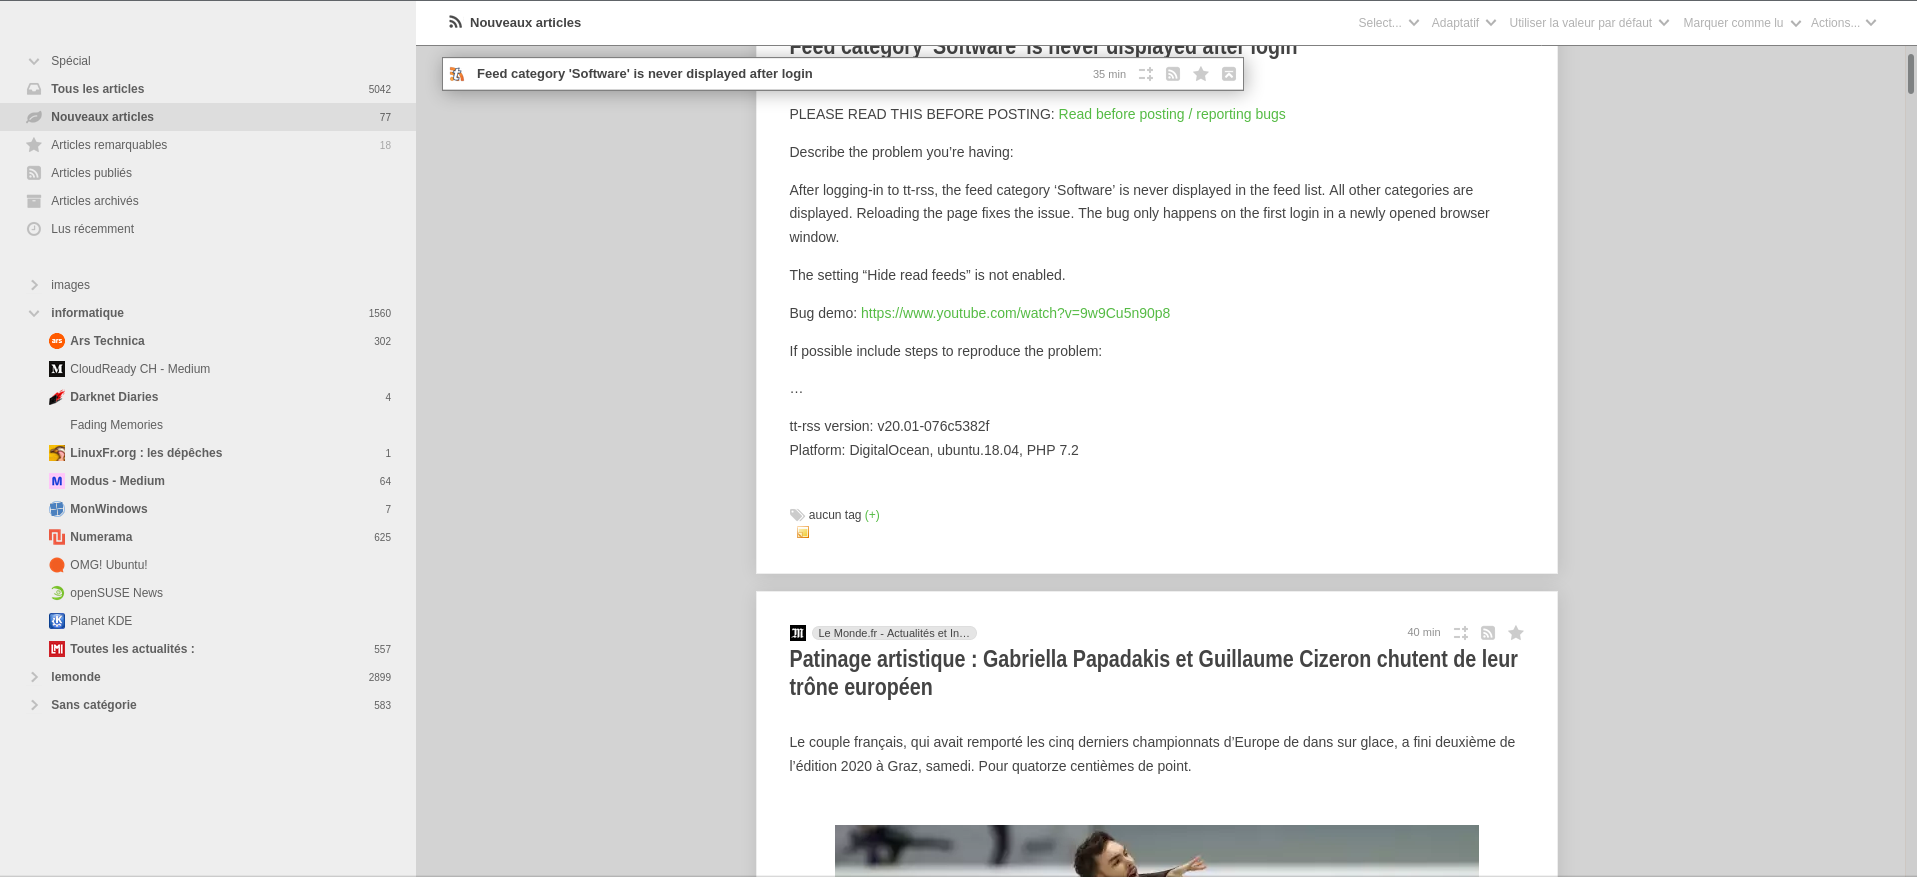
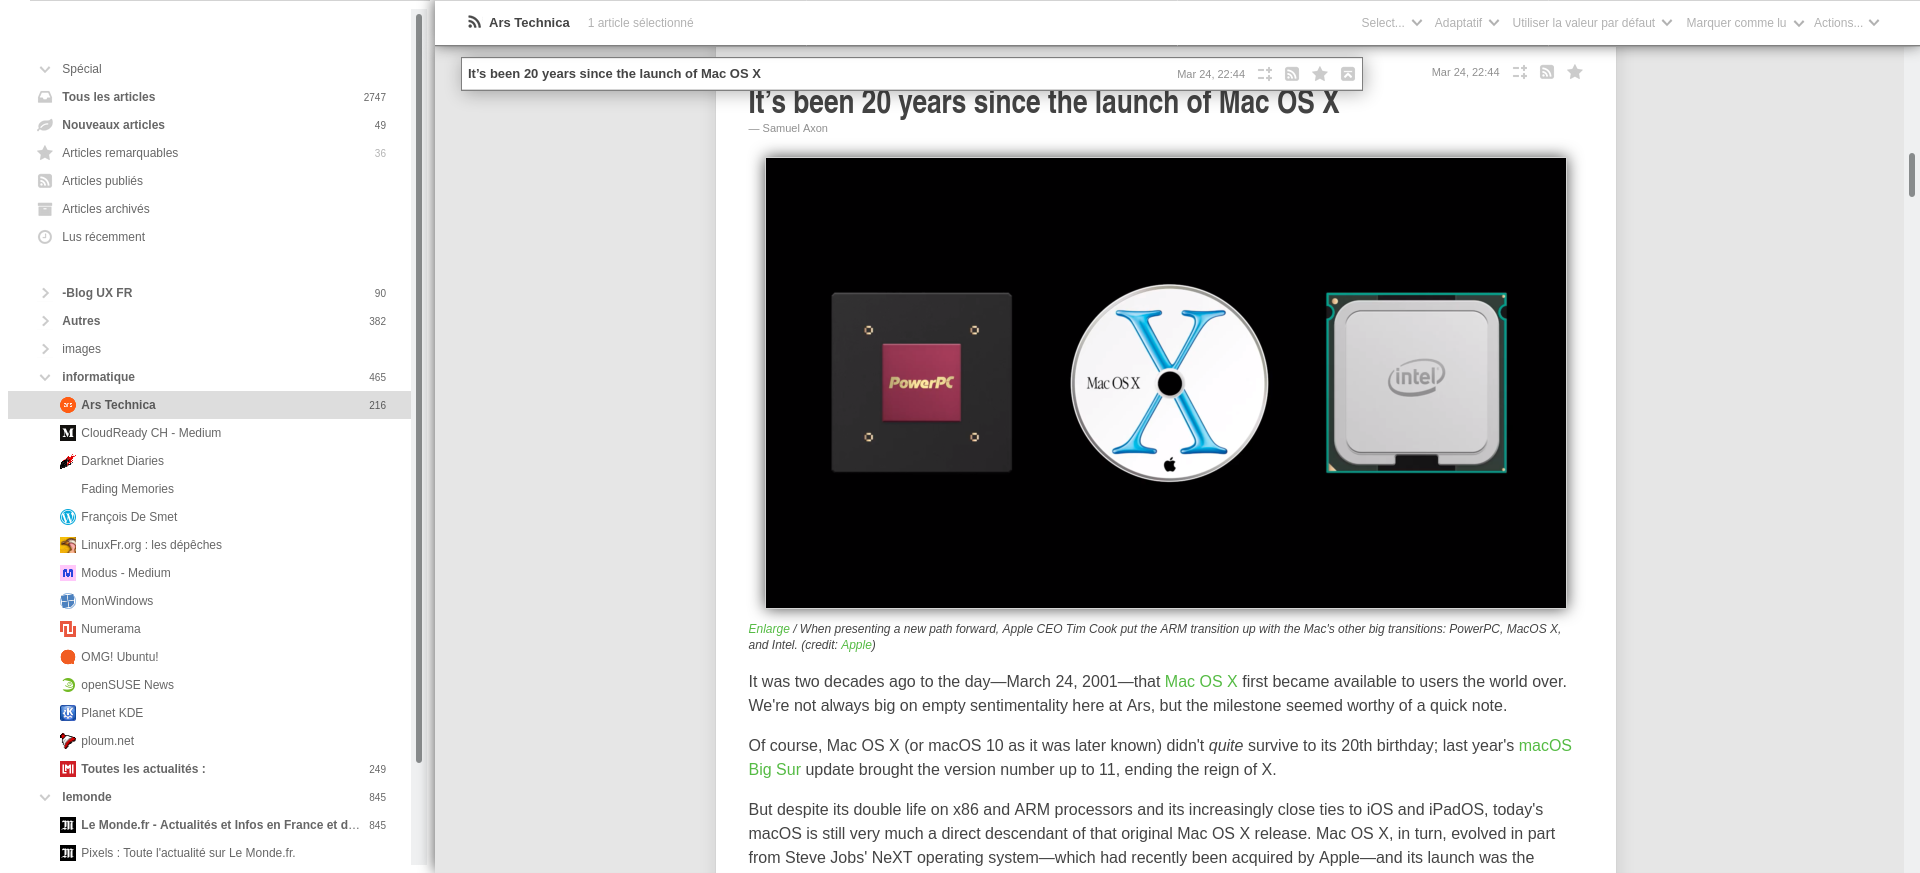
add shadow, bigger button, fix background-color

diff --git a/style.css b/style.css
@@ -1,6 +1,6 @@
 .cdm.expandable.active, .cdm.expanded
 {
-  max-width:800px;
+  max-width:900px;
   margin-left:auto;
   margin-right:auto;
   background-color: white;
@@ -10,17 +10,31 @@
 
 #headlines-wrap-inner,#headlines-frame
 {
-  background-color: lightgrey;
+  background-color: #e6e6e6;
+  box-shadow: 0px -2px 15px rgba(0,0,0,0.7);;
 }
-
+#feeds-holder, #headlines-wrap-inner .dijitSplitter, #main
+{
+  background-color:white;
+}
 .cdmContentInner img, .cdmContentInner video, .cdmIntermediate img, .cdmIntermediate video, .postContent img, .postContent video
 {
     margin: auto;
     display: block;
+    max-height: 550px;
+    margin-bottom: 1em;
+    box-shadow: 0px 0px 74px rgba(0, 0, 0, 0.04);
+    border: 1px solid #e3e3e3;
 }
 .cdmContentInner p, .postContent p
 {
     max-width:none;
+}
+
+.cdmContentInner
+{
+    font-size:16px;
+    line-height: 1.5;
 }
 
 #headlines-frame::before
@@ -32,6 +46,7 @@
 #toolbar
 {
     border-bottom: 1px solid grey;
+   box-shadow: 0px -2px 15px rgba(0,0,0,0.7);;
 }
 
 #floatingTitle
@@ -48,7 +63,31 @@
     margin: auto;
     display: block;
 }
+
+.cdmContent img {
+    box-shadow: 0 0 15px rgba(0,0,0,0.7);
+    border: 1px solid lightgray;
+    margin: 1em auto;
+}
 .cdmContentInner p, .postContent p
 {
     max-width:none;
 }
+
+.cdm.expandable.active .title, .cdm.expanded .title {
+    font-size: 32px;
+    line-height: 1;
+}
+
+
+
+.claro .dijitButton .dijitButtonNode, .claro .dijitComboButton .dijitButtonNode, .claro .dijitDropDownButton .dijitButtonNode, .claro .dijitToggleButton .dijitButtonNode {
+    padding:8px;
+}
+
+.claro .dijitContentPane {
+    padding: 8px;
+    border-top: 1px solid lightgray;
+}
+
+

diff --git a/README.md b/README.md
@@ -2,3 +2,6 @@
 Small improvement for the default ttrss theme.
 
 ![capture](ttrss.png)
+
+
+![capture](settings.png)
